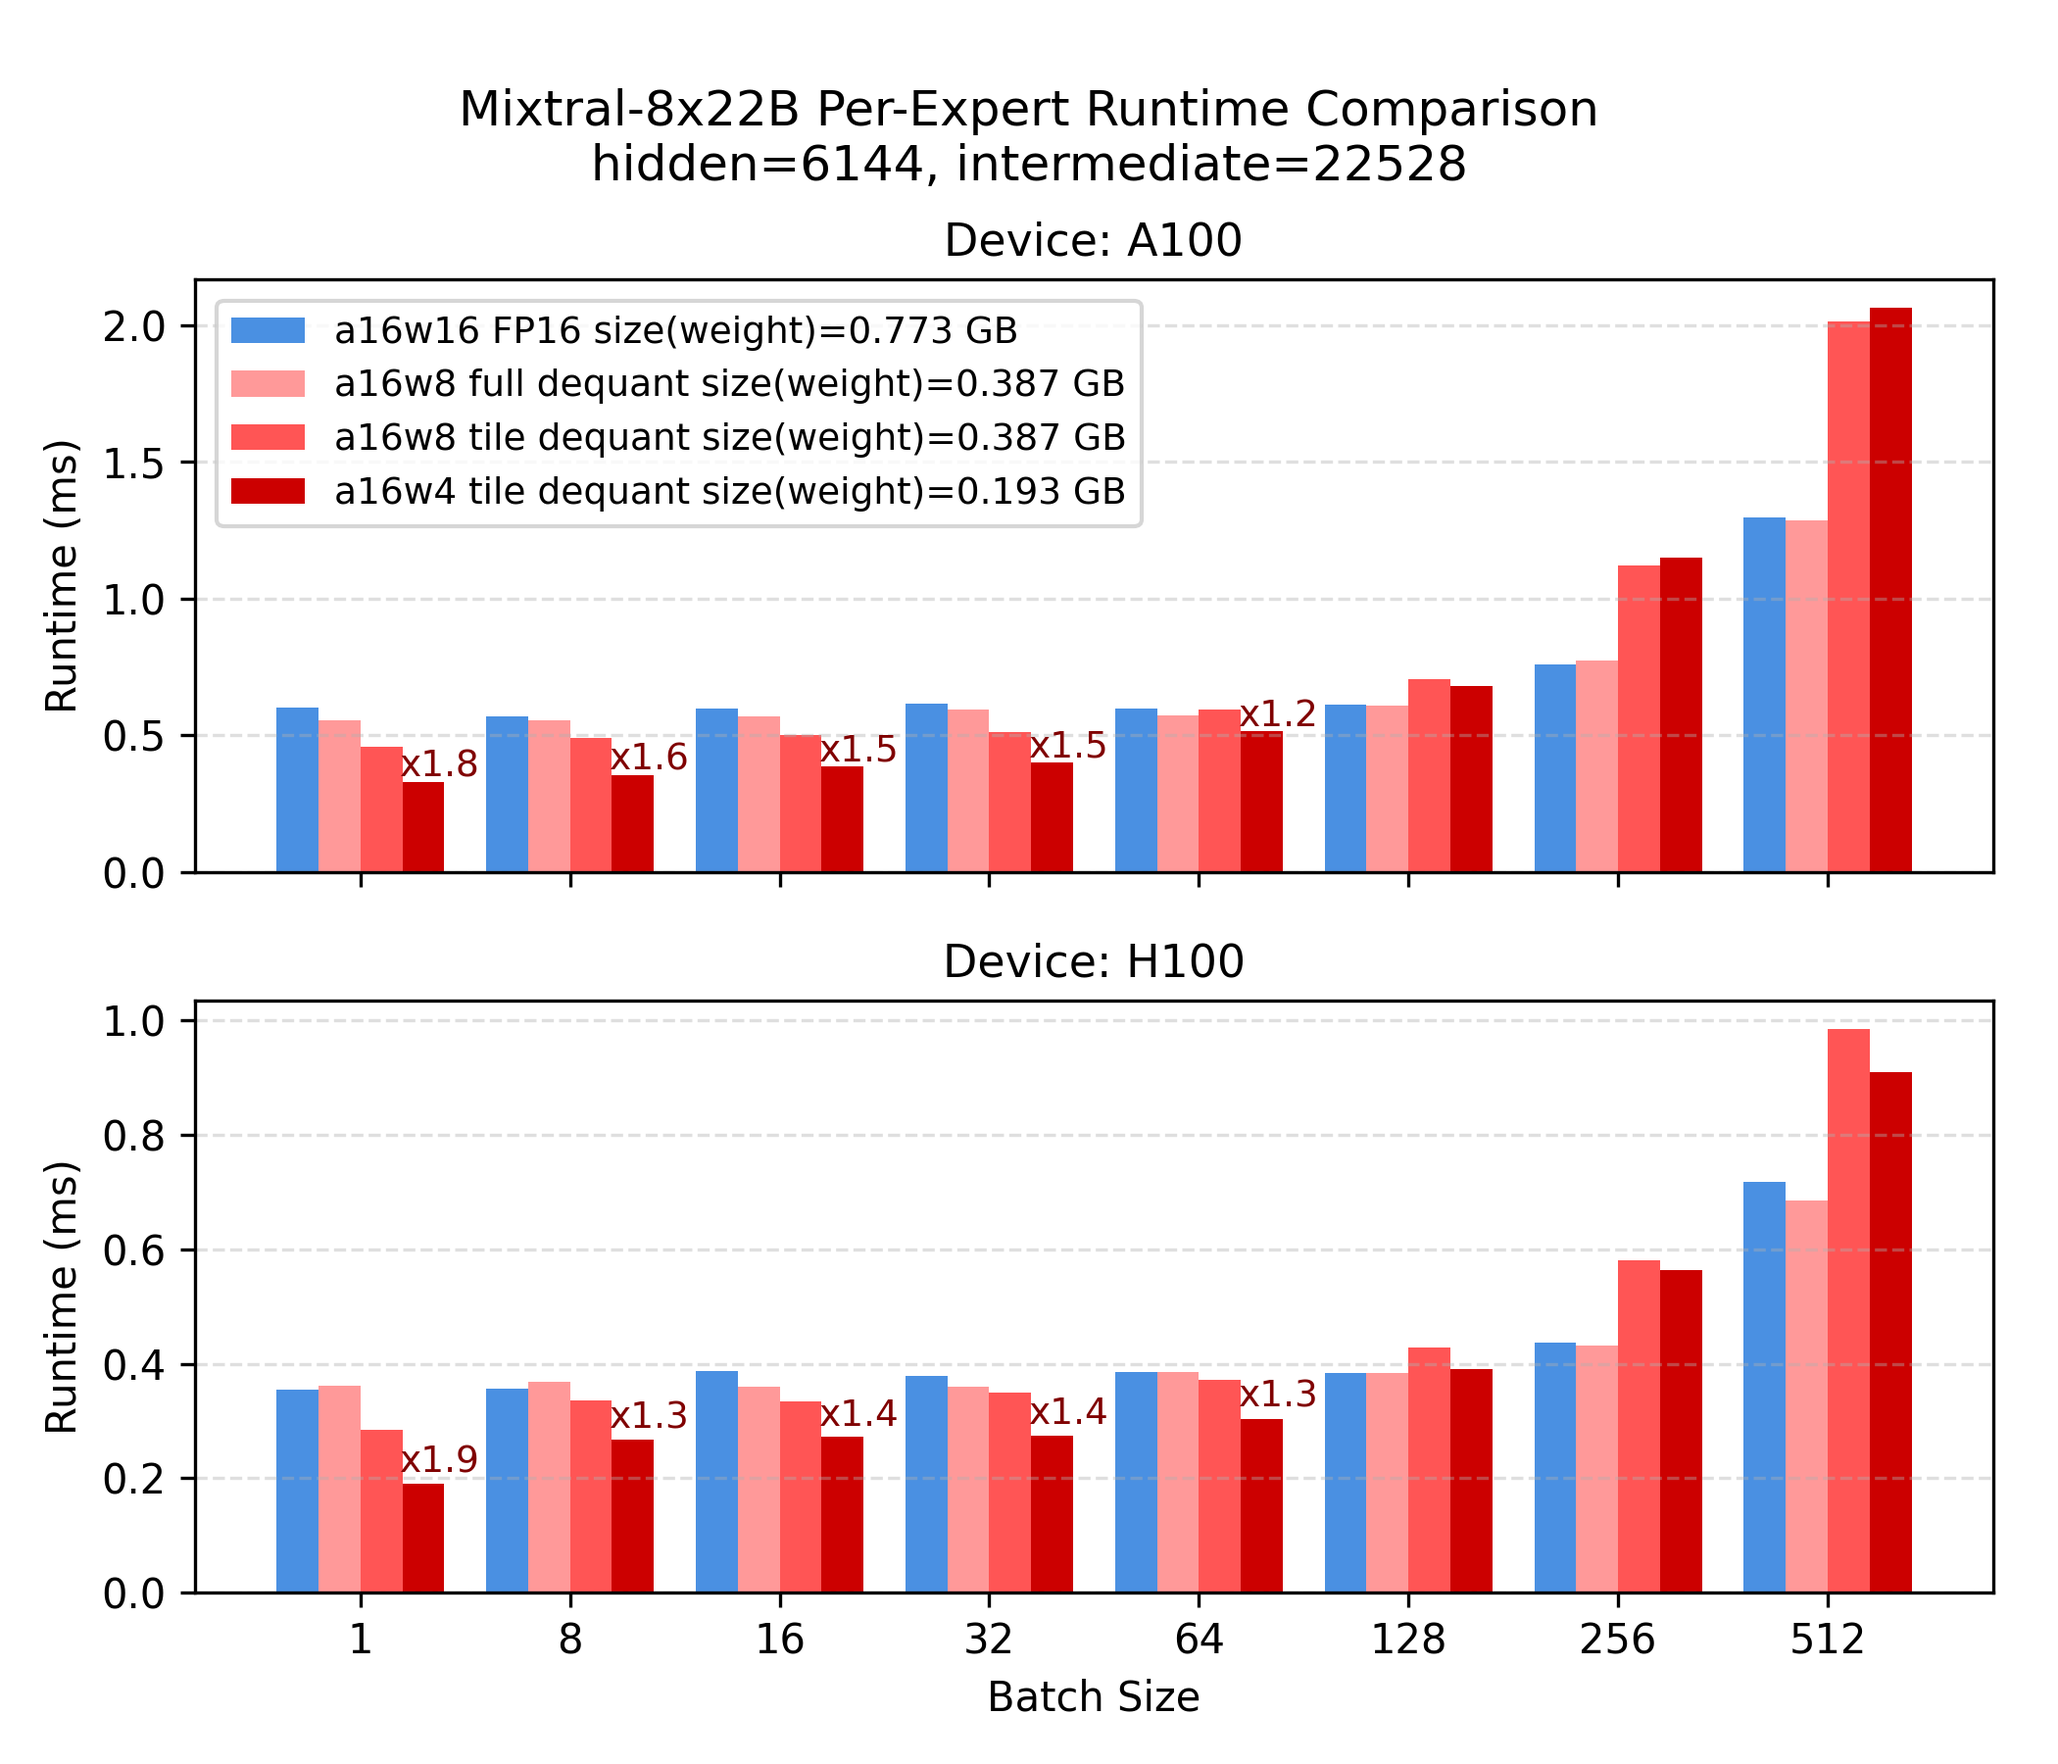
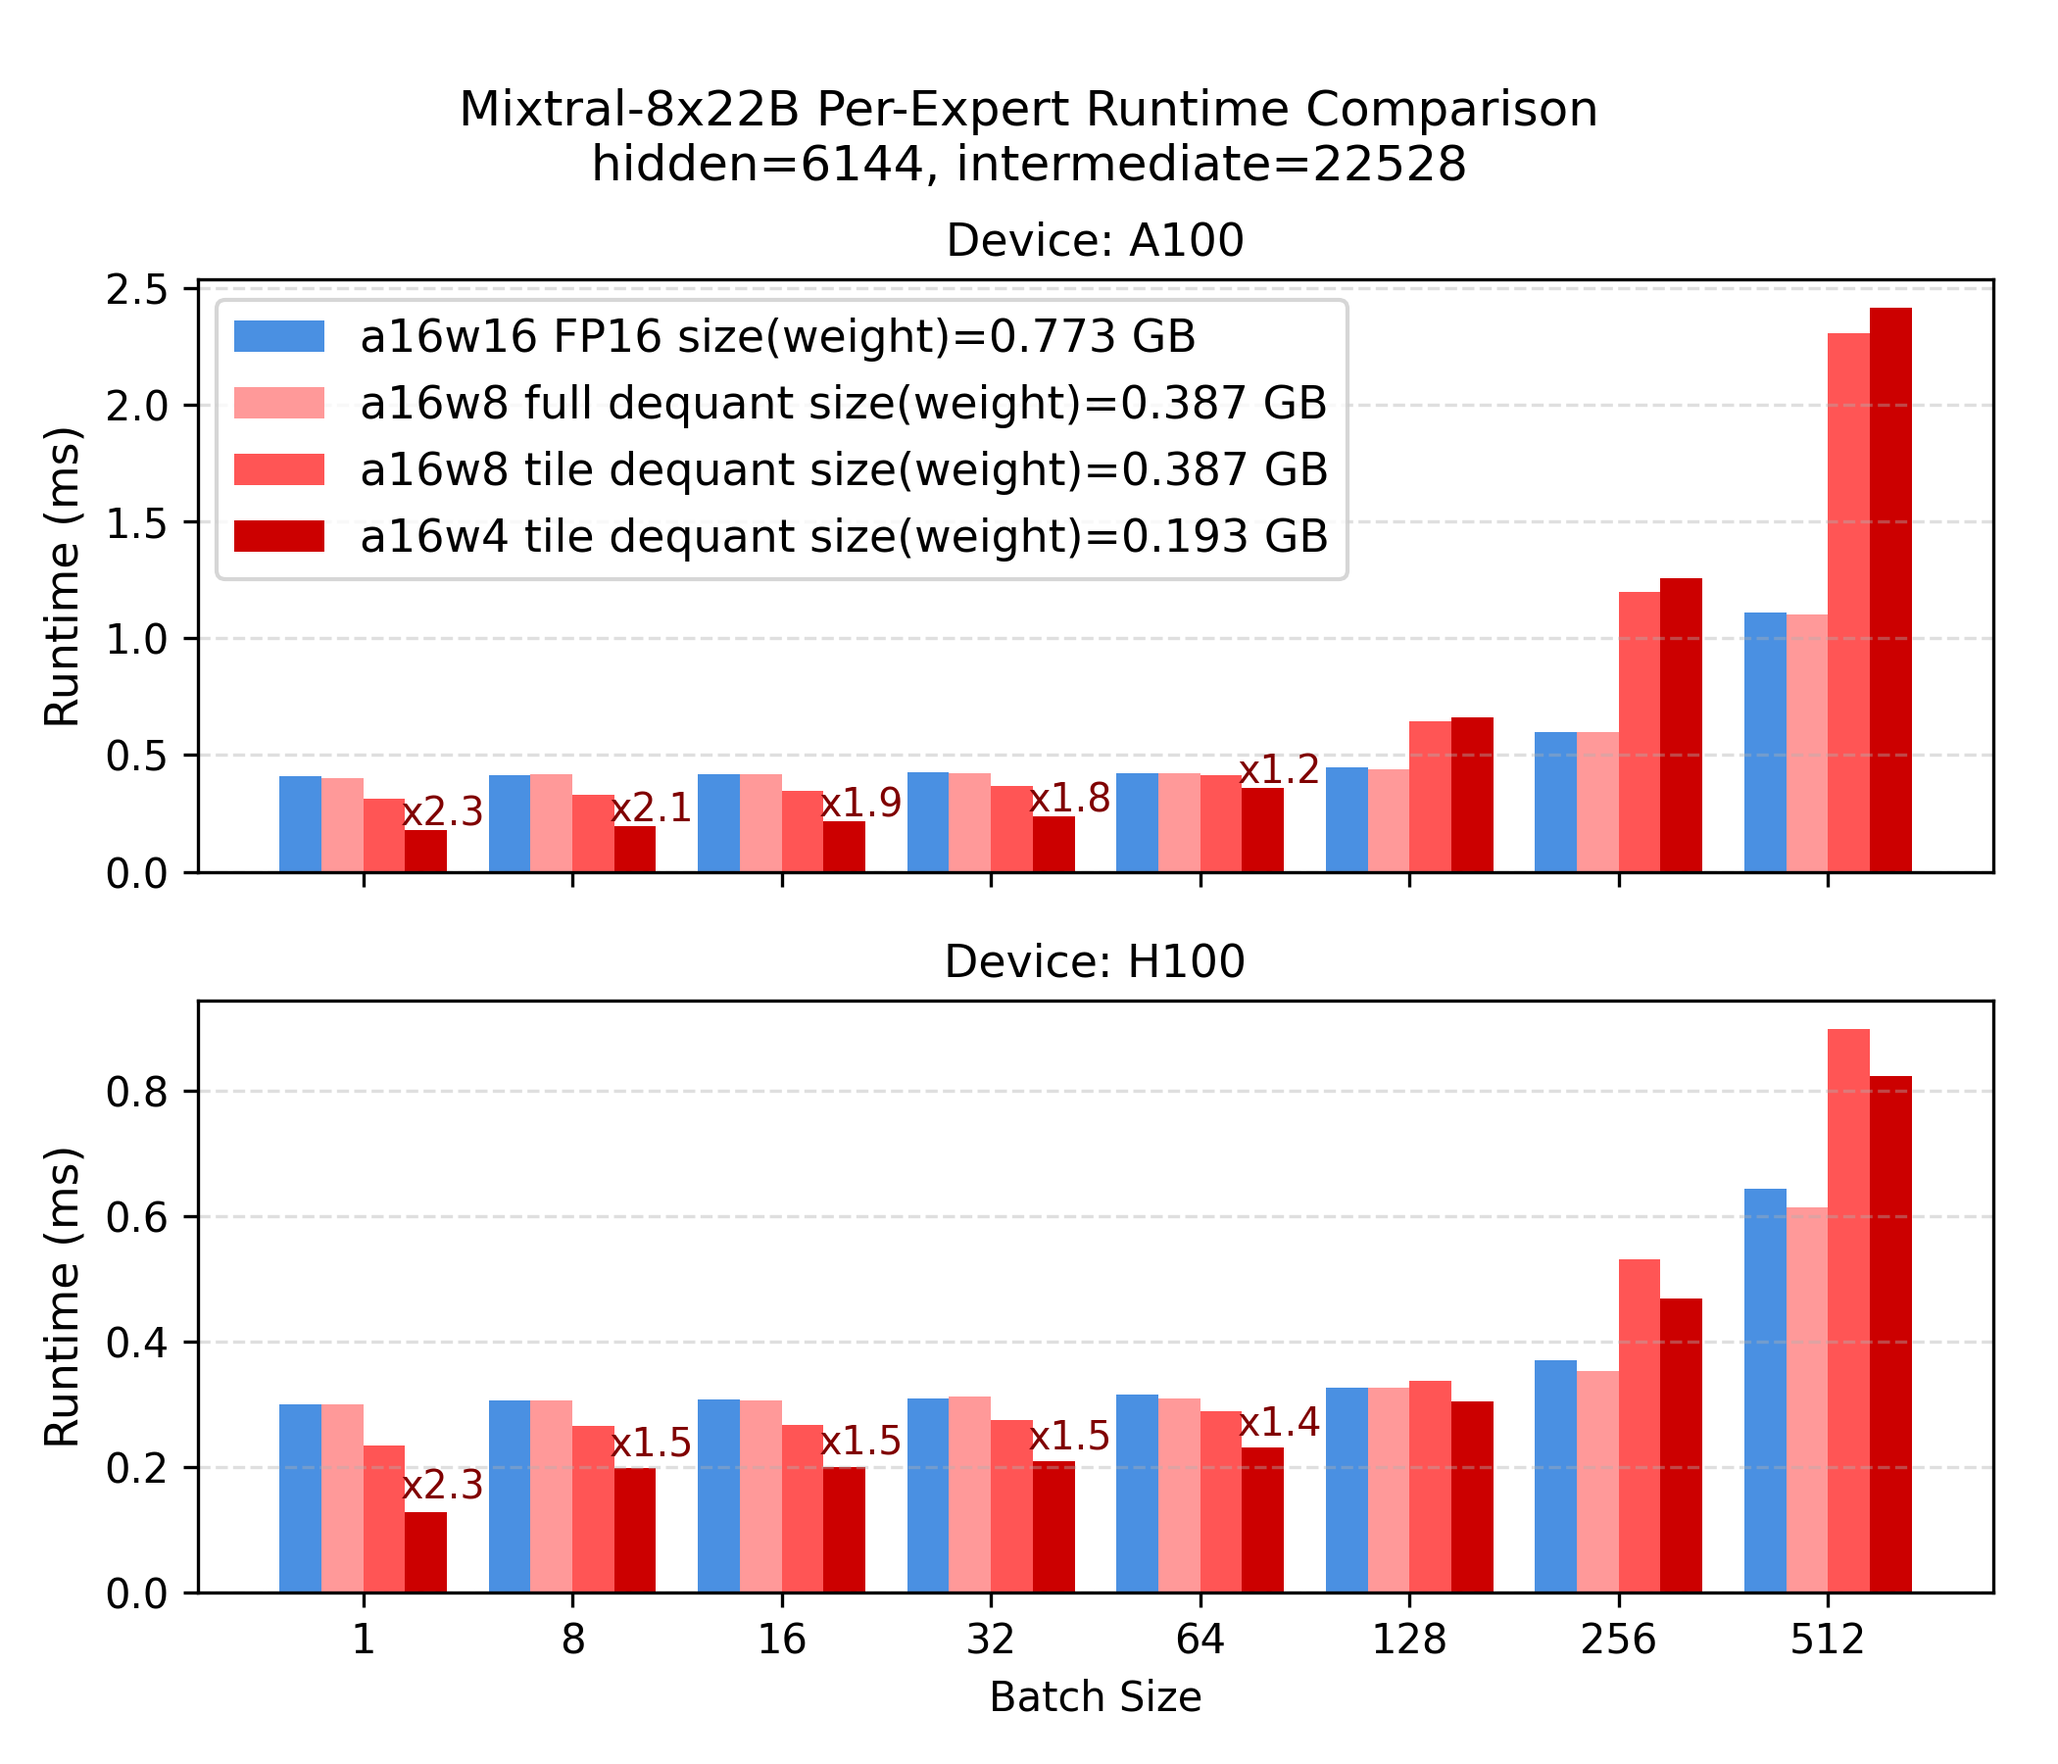
finalize plots (line plot)

diff --git a/test_from_trt/plot/grouped_barplot_stack.py b/test_from_trt/plot/grouped_barplot_stack.py
@@ -4,24 +4,86 @@ import numpy as np
 # Define raw data dictionaries for two devices
 data_devices = {
     "A100": [
-        (128,0.611,"fp16",False,0.7734),(128,0.609,"int8",False,0.3867),(128,0.706,"int8",True,0.3867),(128,0.679,"int4",True,0.1934),
-        (16,0.596,"fp16",False,0.7734),(16,0.568,"int8",False,0.3867),(16,0.499,"int8",True,0.3867),(16,0.386,"int4",True,0.1934),
-        (1,0.602,"fp16",False,0.7734),(1,0.554,"int8",False,0.3867),(1,0.457,"int8",True,0.3867),(1,0.327,"int4",True,0.1934),
-        (256,0.759,"fp16",False,0.7734),(256,0.773,"int8",False,0.3867),(256,1.122,"int8",True,0.3867),(256,1.149,"int4",True,0.1934),
-        (32,0.614,"fp16",False,0.7734),(32,0.594,"int8",False,0.3867),(32,0.511,"int8",True,0.3867),(32,0.401,"int4",True,0.1934),
-        (512,1.297,"fp16",False,0.7734),(512,1.286,"int8",False,0.3867),(512,2.016,"int8",True,0.3867),(512,2.064,"int4",True,0.1934),
-        (64,0.598,"fp16",False,0.7734),(64,0.574,"int8",False,0.3867),(64,0.593,"int8",True,0.3867),(64,0.514,"int4",True,0.1934),
-        (8,0.570,"fp16",False,0.7734),(8,0.556,"int8",False,0.3867),(8,0.490,"int8",True,0.3867),(8,0.353,"int4",True,0.1934),
+        (128, 0.448, "fp16", False, 0.7734),
+        (128, 0.439, "int8", False, 0.3867),
+        (128, 0.646, "int8", True,  0.3867),
+        (128, 0.661, "int4", True,  0.1934),
+
+        (16,  0.419, "fp16", False, 0.7734),
+        (16,  0.418, "int8", False, 0.3867),
+        (16,  0.347, "int8", True,  0.3867),
+        (16,  0.217, "int4", True,  0.1934),
+
+        (1,   0.409, "fp16", False, 0.7734),
+        (1,   0.402, "int8", False, 0.3867),
+        (1,   0.314, "int8", True,  0.3867),
+        (1,   0.178, "int4", True,  0.1934),
+
+        (256, 0.599, "fp16", False, 0.7734),
+        (256, 0.597, "int8", False, 0.3867),
+        (256, 1.198, "int8", True,  0.3867),
+        (256, 1.256, "int4", True,  0.1934),
+
+        (32,  0.424, "fp16", False, 0.7734),
+        (32,  0.421, "int8", False, 0.3867),
+        (32,  0.366, "int8", True,  0.3867),
+        (32,  0.237, "int4", True,  0.1934),
+
+        (512, 1.109, "fp16", False, 0.7734),
+        (512, 1.103, "int8", False, 0.3867),
+        (512, 2.305, "int8", True,  0.3867),
+        (512, 2.414, "int4", True,  0.1934),
+
+        (64,  0.421, "fp16", False, 0.7734),
+        (64,  0.422, "int8", False, 0.3867),
+        (64,  0.415, "int8", True,  0.3867),
+        (64,  0.359, "int4", True,  0.1934),
+
+        (8,   0.415, "fp16", False, 0.7734),
+        (8,   0.416, "int8", False, 0.3867),
+        (8,   0.330, "int8", True,  0.3867),
+        (8,   0.196, "int4", True,  0.1934),
     ],
     "H100": [
-        (128,0.384,"fp16",False,0.7734),(128,0.383,"int8",False,0.3867),(128,0.428,"int8",True,0.3867),(128,0.391,"int4",True,0.1934),
-        (16,0.388,"fp16",False,0.7734),(16,0.360,"int8",False,0.3867),(16,0.334,"int8",True,0.3867),(16,0.272,"int4",True,0.1934),
-        (1,0.355,"fp16",False,0.7734),(1,0.361,"int8",False,0.3867),(1,0.285,"int8",True,0.3867),(1,0.190,"int4",True,0.1934),
-        (256,0.436,"fp16",False,0.7734),(256,0.432,"int8",False,0.3867),(256,0.581,"int8",True,0.3867),(256,0.564,"int4",True,0.1934),
-        (32,0.378,"fp16",False,0.7734),(32,0.360,"int8",False,0.3867),(32,0.349,"int8",True,0.3867),(32,0.275,"int4",True,0.1934),
-        (512,0.717,"fp16",False,0.7734),(512,0.685,"int8",False,0.3867),(512,0.985,"int8",True,0.3867),(512,0.910,"int4",True,0.1934),
-        (64,0.385,"fp16",False,0.7734),(64,0.385,"int8",False,0.3867),(64,0.371,"int8",True,0.3867),(64,0.304,"int4",True,0.1934),
-        (8,0.357,"fp16",False,0.7734),(8,0.369,"int8",False,0.3867),(8,0.336,"int8",True,0.3867),(8,0.267,"int4",True,0.1934),
+        (128, 0.327, "fp16", False, 0.7734),
+        (128, 0.327, "int8", False, 0.3867),
+        (128, 0.337, "int8", True,  0.3867),
+        (128, 0.305, "int4", True,  0.1934),
+
+        (16,  0.308, "fp16", False, 0.7734),
+        (16,  0.306, "int8", False, 0.3867),
+        (16,  0.268, "int8", True,  0.3867),
+        (16,  0.201, "int4", True,  0.1934),
+
+        (1,   0.301, "fp16", False, 0.7734),
+        (1,   0.301, "int8", False, 0.3867),
+        (1,   0.234, "int8", True,  0.3867),
+        (1,   0.129, "int4", True,  0.1934),
+
+        (256, 0.371, "fp16", False, 0.7734),
+        (256, 0.353, "int8", False, 0.3867),
+        (256, 0.532, "int8", True,  0.3867),
+        (256, 0.469, "int4", True,  0.1934),
+
+        (32,  0.310, "fp16", False, 0.7734),
+        (32,  0.312, "int8", False, 0.3867),
+        (32,  0.275, "int8", True,  0.3867),
+        (32,  0.209, "int4", True,  0.1934),
+
+        (512, 0.644, "fp16", False, 0.7734),
+        (512, 0.615, "int8", False, 0.3867),
+        (512, 0.899, "int8", True,  0.3867),
+        (512, 0.824, "int4", True,  0.1934),
+
+        (64,  0.316, "fp16", False, 0.7734),
+        (64,  0.310, "int8", False, 0.3867),
+        (64,  0.290, "int8", True,  0.3867),
+        (64,  0.231, "int4", True,  0.1934),
+
+        (8,   0.306, "fp16", False, 0.7734),
+        (8,   0.306, "int8", False, 0.3867),
+        (8,   0.266, "int8", True,  0.3867),
+        (8,   0.199, "int4", True,  0.1934),
     ]
 }
 
@@ -81,19 +143,19 @@ for ax, (device, raw_data) in zip(axes, data_devices.items()):
             if q4 < base:
                 speedup = base / q4
                 ax.text(idx + 1.9*width, q4 + 0.02, f"x{speedup:.1f}",
-                        ha="center", color="maroon", fontsize=9)
+                        ha="center", color="maroon", fontsize=9.5)
 
 axes[-1].set_xticks(batch_sizes_arr)
 axes[-1].set_xticklabels(batch_sizes)
 axes[-1].set_xlabel("Batch Size")
-axes[0].set_ylabel("Runtime (ms)")
-axes[1].set_ylabel("Runtime (ms)")
+axes[0].set_ylabel("Runtime (ms)", fontsize=11)
+axes[1].set_ylabel("Runtime (ms)", fontsize=11)
 
 # ------- SHARED LEGEND -------
 # Use the handles from the last axes
 handles, labels = axes[-1].get_legend_handles_labels()
-fig.legend(handles, labels, loc="upper center", bbox_to_anchor=(0.33, 0.84),
-           ncol=1, fontsize=9)
+fig.legend(handles, labels, loc="upper center", bbox_to_anchor=(0.38, 0.843),
+           ncol=1, fontsize=11)
 
 # ------- TITLE WITH PROPER SPACING -------
 fig.suptitle("Mixtral-8x22B Per-Expert Runtime Comparison\n"

diff --git a/test_from_trt/plot/line_plot.py b/test_from_trt/plot/line_plot.py
@@ -1,0 +1,118 @@
+import matplotlib.pyplot as plt
+import numpy as np
+from matplotlib.ticker import FuncFormatter
+
+# Define raw data for A100 only
+data_devices = {
+    "A100": [
+        (128, 0.448, "fp16", False, 0.7734),
+        (128, 0.439, "int8", False, 0.3867),
+        (128, 0.646, "int8", True,  0.3867),
+        (128, 0.661, "int4", True,  0.1934),
+
+        (16,  0.419, "fp16", False, 0.7734),
+        (16,  0.418, "int8", False, 0.3867),
+        (16,  0.347, "int8", True,  0.3867),
+        (16,  0.217, "int4", True,  0.1934),
+
+        (1,   0.409, "fp16", False, 0.7734),
+        (1,   0.402, "int8", False, 0.3867),
+        (1,   0.314, "int8", True,  0.3867),
+        (1,   0.178, "int4", True,  0.1934),
+
+        (256, 0.599, "fp16", False, 0.7734),
+        (256, 0.597, "int8", False, 0.3867),
+        (256, 1.198, "int8", True,  0.3867),
+        (256, 1.256, "int4", True,  0.1934),
+
+        (32,  0.424, "fp16", False, 0.7734),
+        (32,  0.421, "int8", False, 0.3867),
+        (32,  0.366, "int8", True,  0.3867),
+        (32,  0.237, "int4", True,  0.1934),
+
+        (512, 1.109, "fp16", False, 0.7734),
+        (512, 1.103, "int8", False, 0.3867),
+        (512, 2.305, "int8", True,  0.3867),
+        (512, 2.414, "int4", True,  0.1934),
+
+        (64,  0.421, "fp16", False, 0.7734),
+        (64,  0.422, "int8", False, 0.3867),
+        (64,  0.415, "int8", True,  0.3867),
+        (64,  0.359, "int4", True,  0.1934),
+
+        (8,   0.415, "fp16", False, 0.7734),
+        (8,   0.416, "int8", False, 0.3867),
+        (8,   0.330, "int8", True,  0.3867),
+        (8,   0.196, "int4", True,  0.1934),
+    ]
+}
+
+def extract_series(raw_data, weight_type, tiling, batch_range):
+    batch_sizes = sorted([b for (b,_,_,_,_) in raw_data if b in batch_range])
+    values = []
+    for b in batch_sizes:
+        values.append(
+            next(r for (bb,r,w,t,_) in raw_data if bb==b and w==weight_type and t==tiling)
+        )
+    return np.array(batch_sizes), np.array(values)
+
+# Custom formatter to remove trailing zeros
+def format_func(value, tick_number):
+    return f'{value:g}'
+
+batch_range = [8, 16, 32, 64, 128, 256, 512]
+
+fig, ax = plt.subplots(1, 1, figsize=(4, 3))
+
+raw_data = data_devices["A100"]
+bs_fp16, a16w16 = extract_series(raw_data, "fp16", False, batch_range)
+bs_int4, a16w4_tile = extract_series(raw_data, "int4", True, batch_range)
+
+ax.plot(bs_fp16, a16w16, marker='o', linewidth=2, markersize=4,
+        label="a16w16 (FP16)", color='#4A90E2')
+
+ax.plot(bs_int4, a16w4_tile, marker='s', linewidth=2, markersize=4,
+        label="a16w4 (INT4)", color='#CC0000')
+
+# Set both x and y axes to log scale (base 2)
+ax.set_xscale('log', base=2)
+ax.set_yscale('log', base=2)
+
+# Use custom formatter to remove trailing zeros
+ax.yaxis.set_major_formatter(FuncFormatter(format_func))
+ax.yaxis.set_minor_formatter(FuncFormatter(format_func))
+
+# Add speedup annotations with arrows
+for i, bs in enumerate(bs_fp16):
+    fp16_val = a16w16[i]
+    int4_val = a16w4_tile[i]
+    
+    # Only annotate where INT4 is faster (speedup > 1)
+    if fp16_val > int4_val:
+        speedup = fp16_val / int4_val
+        
+        # Use geometric mean for midpoint on log scale
+        mid_y = np.sqrt(fp16_val * int4_val)
+        
+        # # Add arrow pointing down from FP16 to INT4
+        # ax.annotate('', xy=(bs, int4_val), xytext=(bs, fp16_val),
+        #            arrowprops=dict(arrowstyle='->', color='darkgreen', 
+        #                          lw=1.5, alpha=0.7))
+        
+        # # Add speedup text
+        # ax.text(bs, mid_y, f'  ×{speedup:.1f}', 
+        #        fontsize=9, color='darkgreen', fontweight='bold',
+        #        ha='left', va='center')
+
+ax.set_title("Mixtral-8x22B Per-Expert Runtime on A100\nhidden=6144, intermediate=22528", 
+             fontsize=12)
+ax.grid(True, linestyle="--", alpha=0.4, which='both')
+ax.set_ylabel("Runtime (ms)", fontsize=11)
+ax.set_xlabel("Batch Size", fontsize=11)
+ax.set_xticks(batch_range)
+ax.set_xticklabels(batch_range)
+ax.legend(fontsize=10)
+
+plt.tight_layout()
+# plt.savefig("mixtral_8x22b_a100_lineplot.pdf", bbox_inches='tight')
+plt.savefig("mixtral_8x22b_a100_lineplot.png", dpi=300, bbox_inches='tight')
